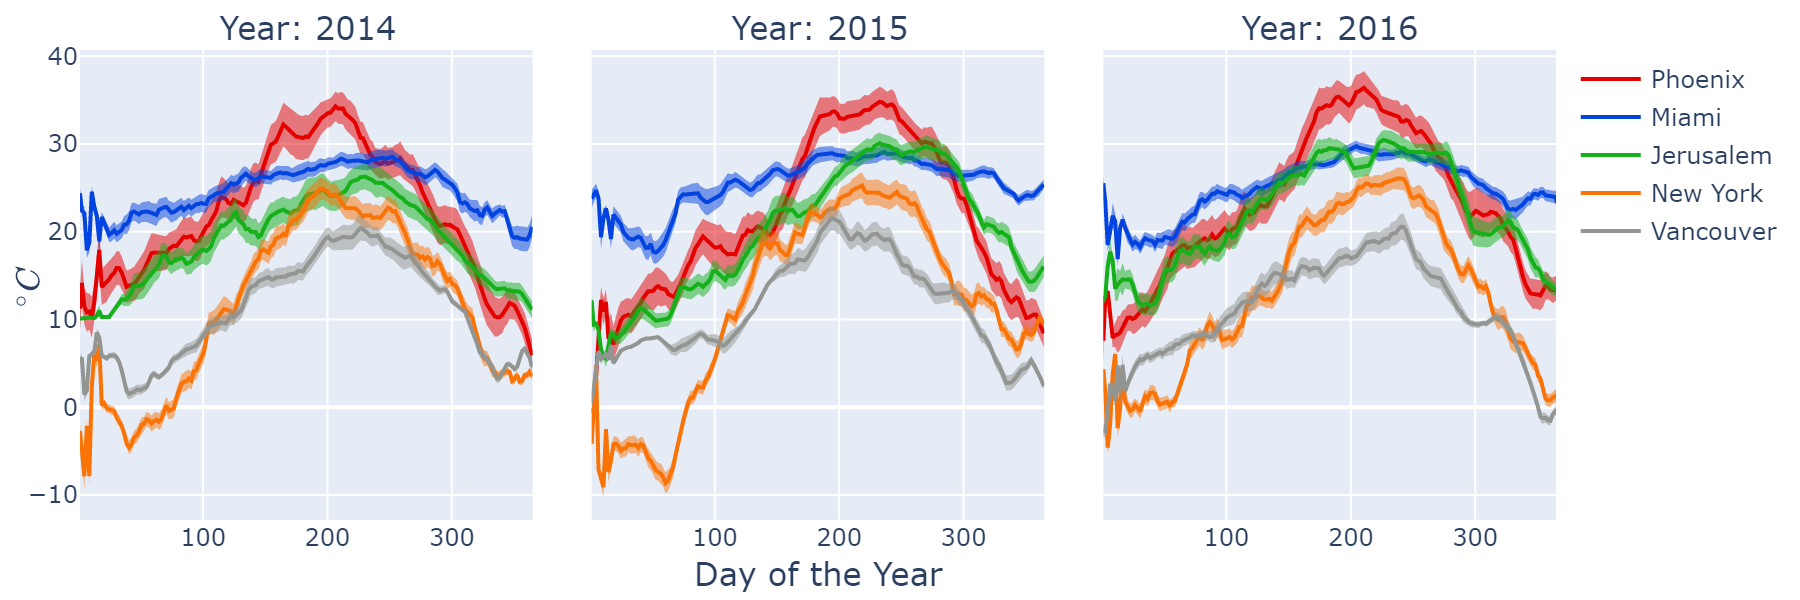
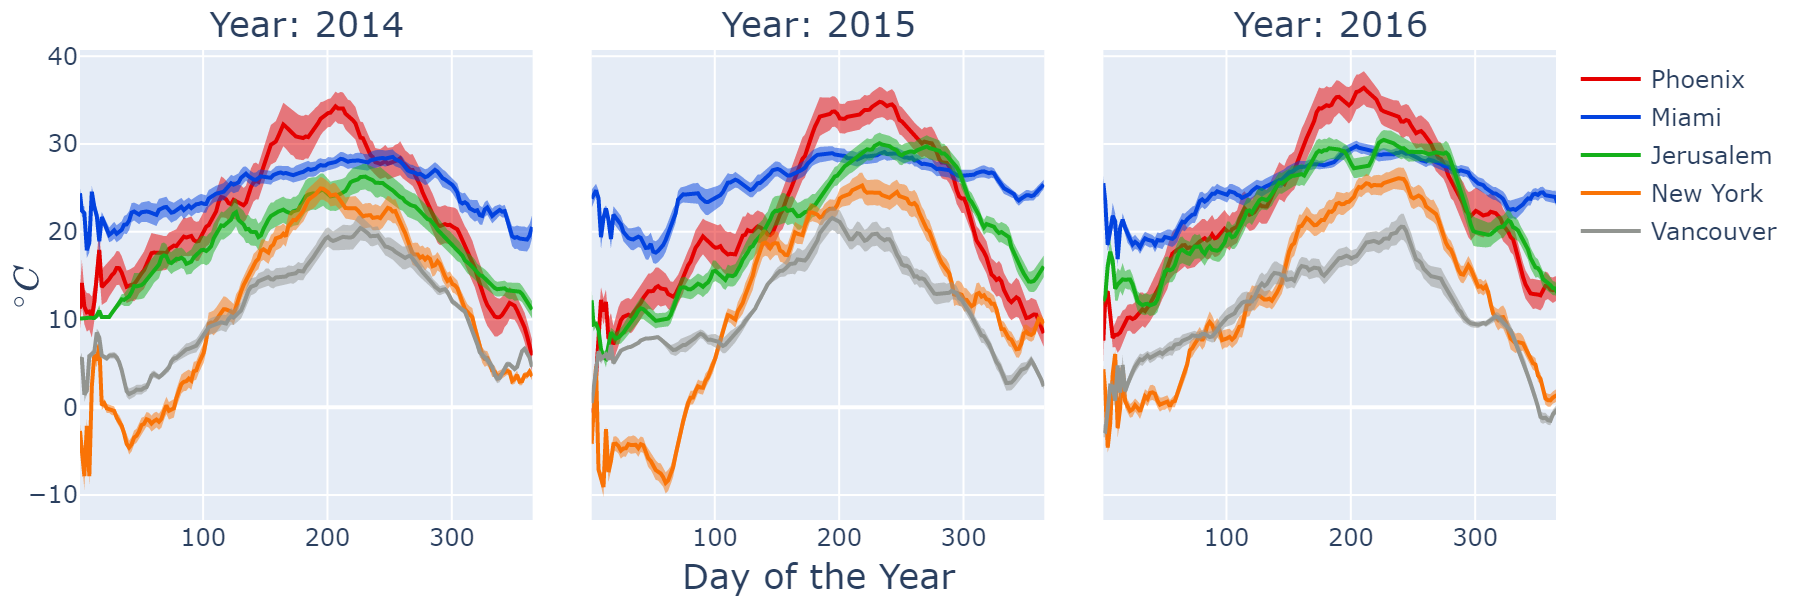
update annotation adjustment functions

diff --git a/examples/subplots/figure_building.py b/examples/subplots/figure_building.py
@@ -2,7 +2,8 @@ from matplotlib.colors import to_hex
 from plotly.subplots import make_subplots
 import plotly.graph_objects as go
 
-from plotting_wand.helpers.layout import reduce_annotations_shifts
+from plotting_wand.helpers.layout import adjust_annotations_font_sizes
+from plotting_wand.helpers.layout import adjust_annotations_shifts
 from plotting_wand.helpers.plotting import build_confidence_interval_traces
 
 from examples.subplots.data_processing import (
@@ -102,8 +103,14 @@ def build_legend_name(subplot_idx, column_name):
 def update_layout(fig):
     # Update the generic layout
     fig.update_layout(
+        # Set the global font size
+        font=dict(
+            size=12
+        ),
         # Set the legend attributes
         legend=dict(
+            # Set the font size of the legend
+            font=dict(size=12),
             # Set the position of the legend
             x=1.01,
             y=1.0,
@@ -117,5 +124,8 @@ def update_layout(fig):
     # Update the X axis range
     fig.update_xaxes(range=[1, 365])
 
-    # Reduce distances from the axis labels to the subplots
-    reduce_annotations_shifts(fig, x_factor=0.5, y_factor=0.5)
+    # Adjust the font sizes of the annotations
+    adjust_annotations_font_sizes(fig, factor=1.1)
+
+    # Adjust distances from the axis labels to the subplots
+    adjust_annotations_shifts(fig, x_factor=0.5, y_factor=0.5)

diff --git a/plotting_wand/helpers/layout.py b/plotting_wand/helpers/layout.py
@@ -1,5 +1,31 @@
-def reduce_annotations_shifts(fig, x_factor=1.0, y_factor=1.0):
-    """ Reduce annotation shifts.
+def adjust_annotations_font_sizes(fig, factor=1.0):
+    """ Adjust annotation font sizes.
+
+    Arguments:
+        fig (plotly.graph_objs._figure.Figure): Plotly figure.
+        factor (float): The font sizes are multiplied with this factor.
+    """
+    # Get the annotation object
+    annotations = getattr(fig.layout, 'annotations', [])
+
+    # Update each annotation
+    for annotation in annotations:
+        # Get the font
+        font = getattr(annotation, 'font', None)
+
+        # Check whether the font attribute exists
+        if font is not None:
+            # Get the size
+            size = getattr(font, 'size', None)
+
+            # Check whether the size attribute exists
+            if size is not None:
+                # Multiply the attribute by the factor
+                font['size'] *= factor
+
+
+def adjust_annotations_shifts(fig, x_factor=1.0, y_factor=1.0):
+    """ Adjust annotation shifts.
 
     Arguments:
         fig (plotly.graph_objs._figure.Figure): Plotly figure.
